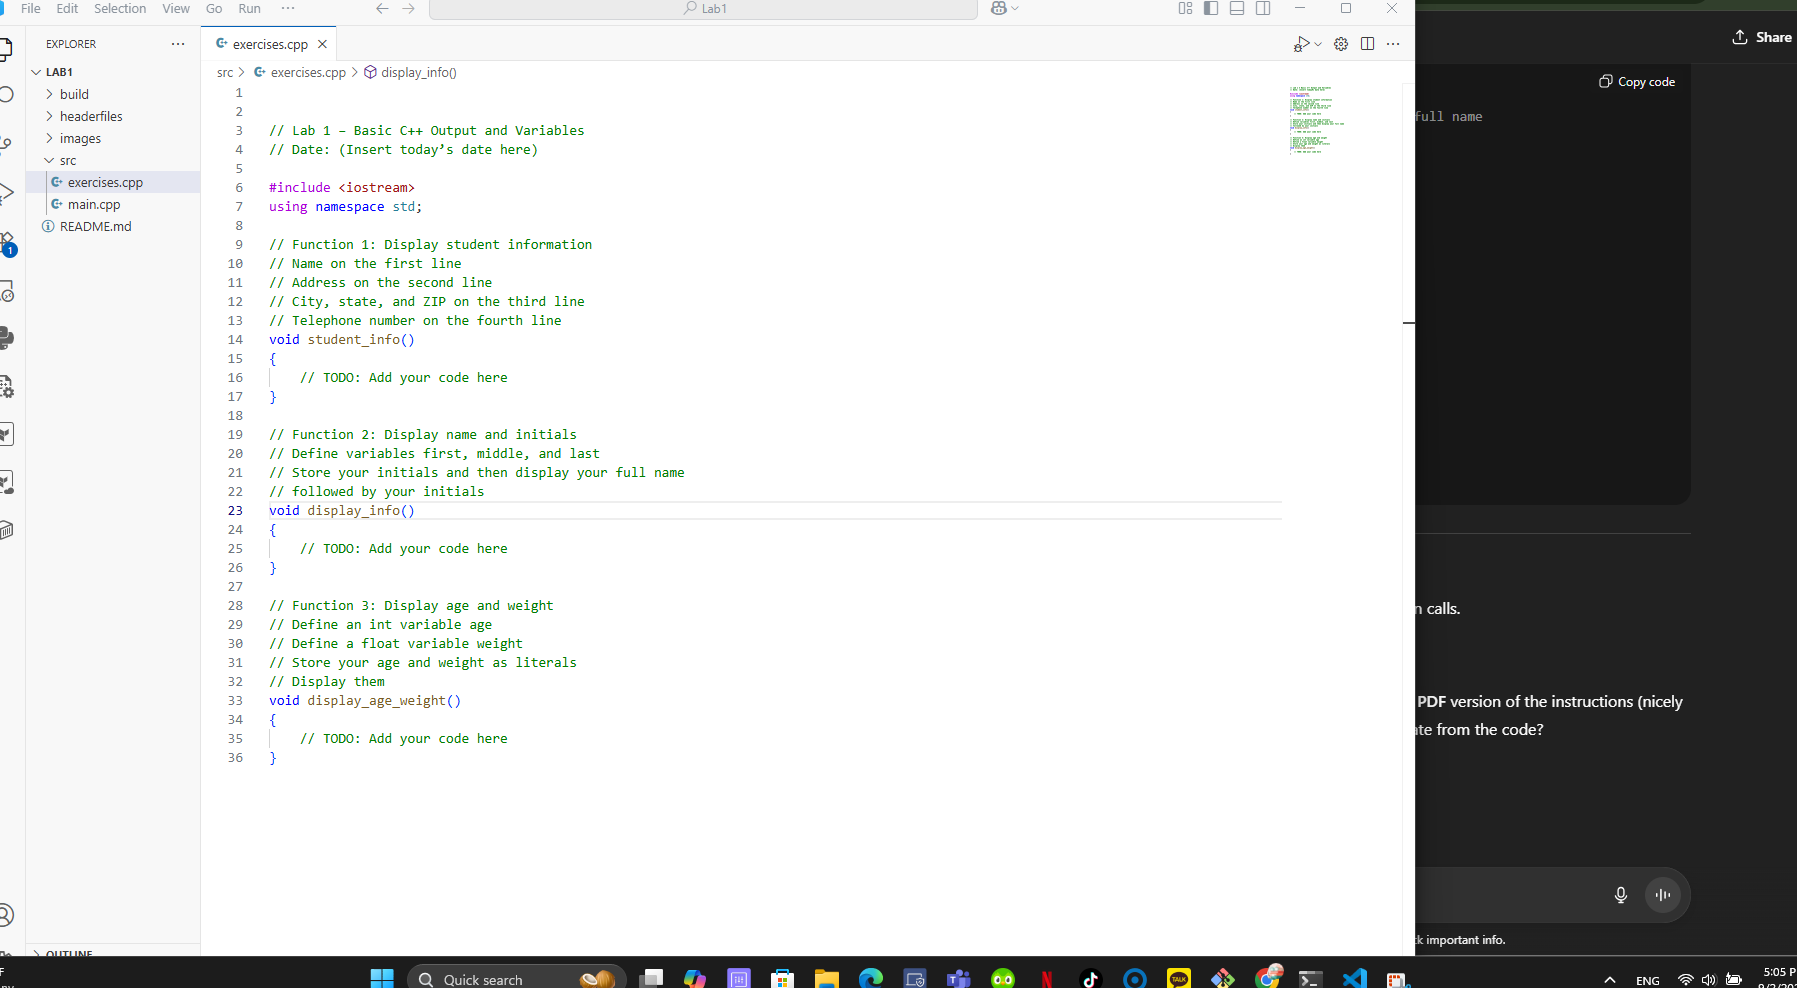
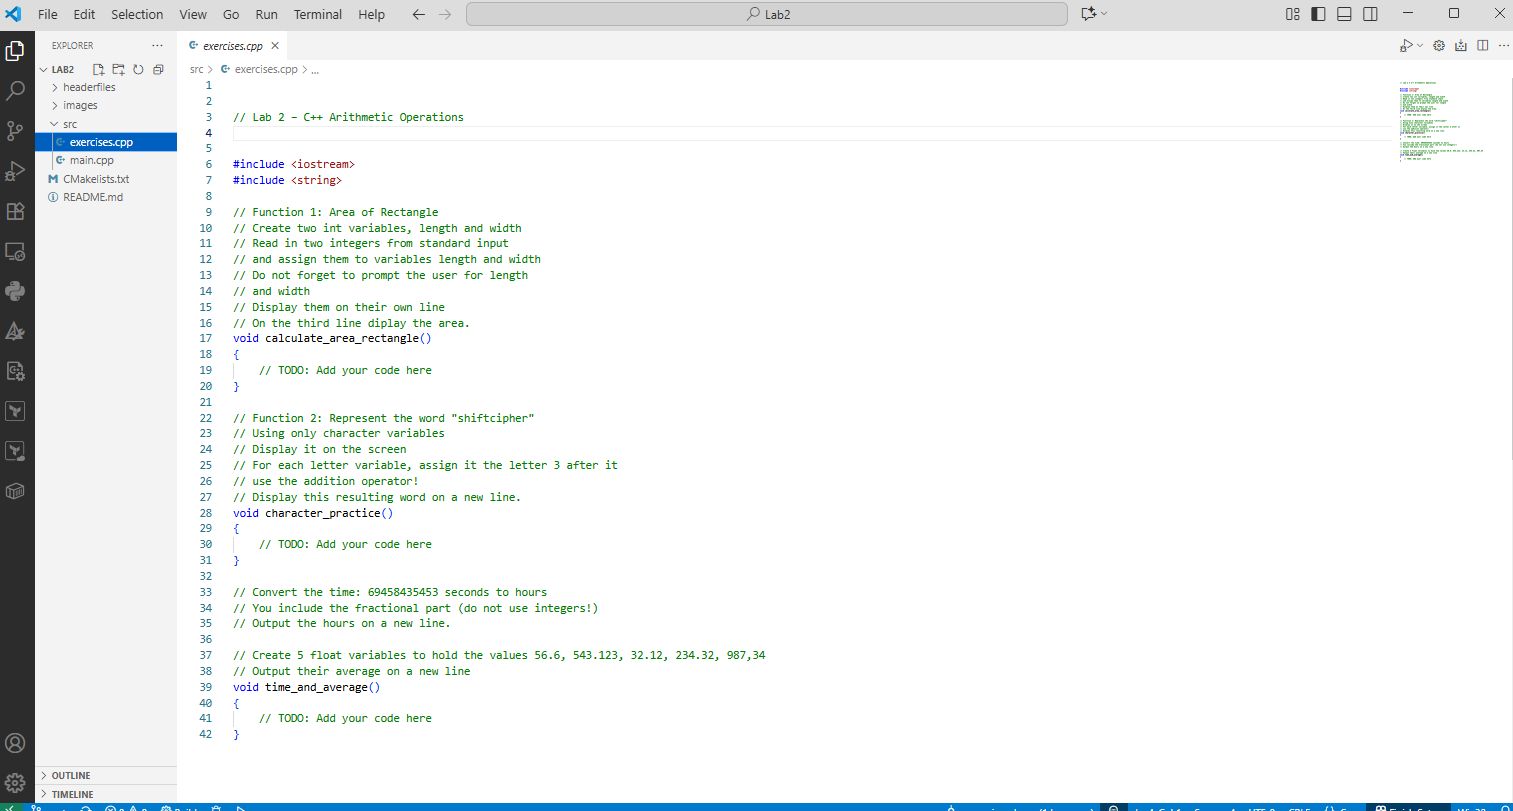
Fixed an image to display Lab2 information, fixed the turn in to be Lab2

diff --git a/README.md b/README.md
@@ -98,5 +98,5 @@ Go back to the section that I mentioned above that needs to be repeated everytim
 
 ## Turning in your Assignment
 
-- You will compress your folder Lab1 to a zip file
+- You will compress your folder Lab2 to a zip file
 - You will then submit the zip file to canvas.
